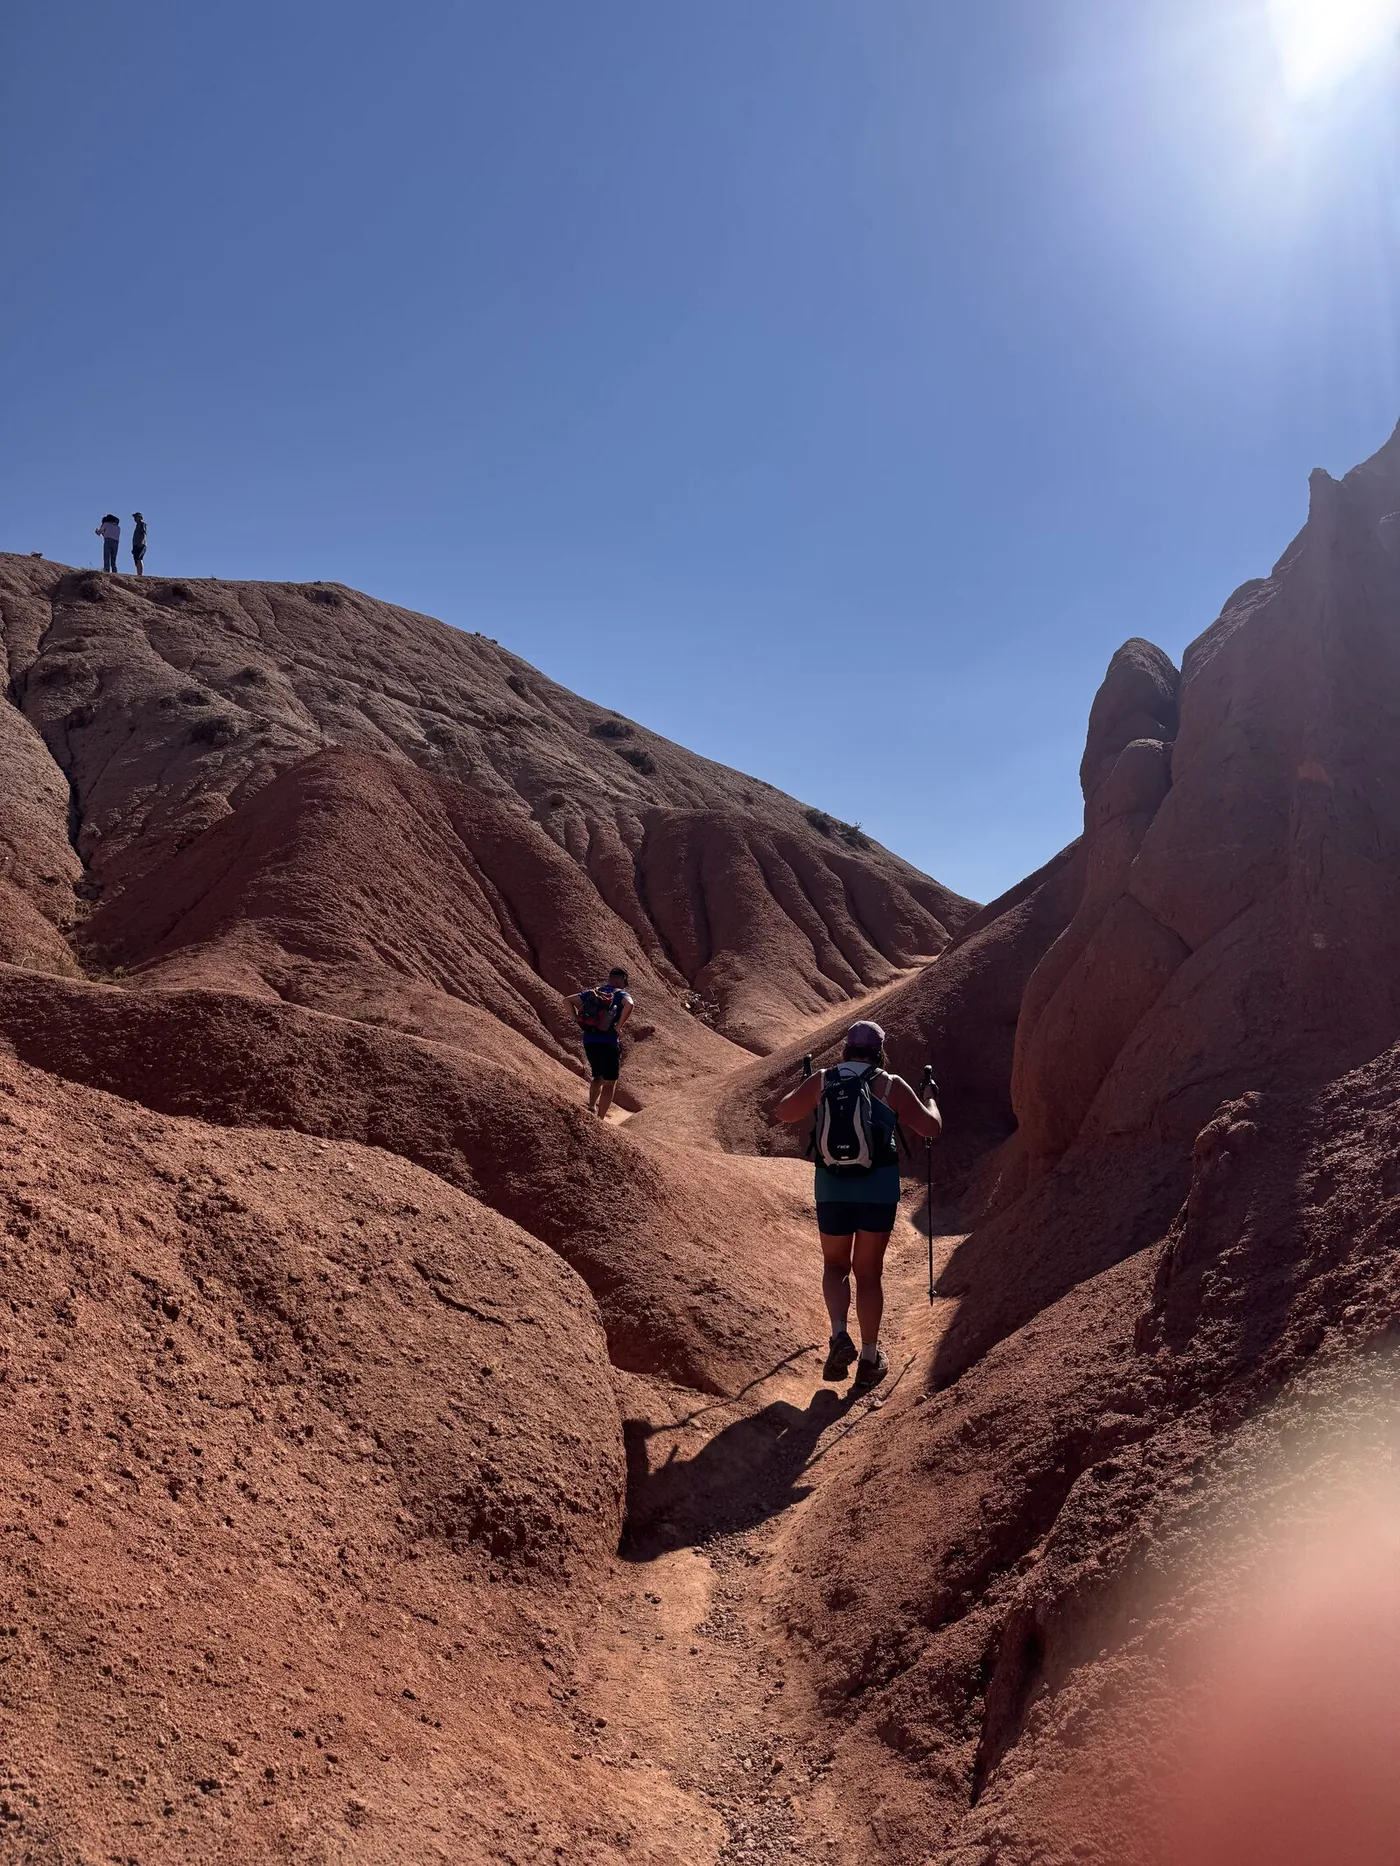
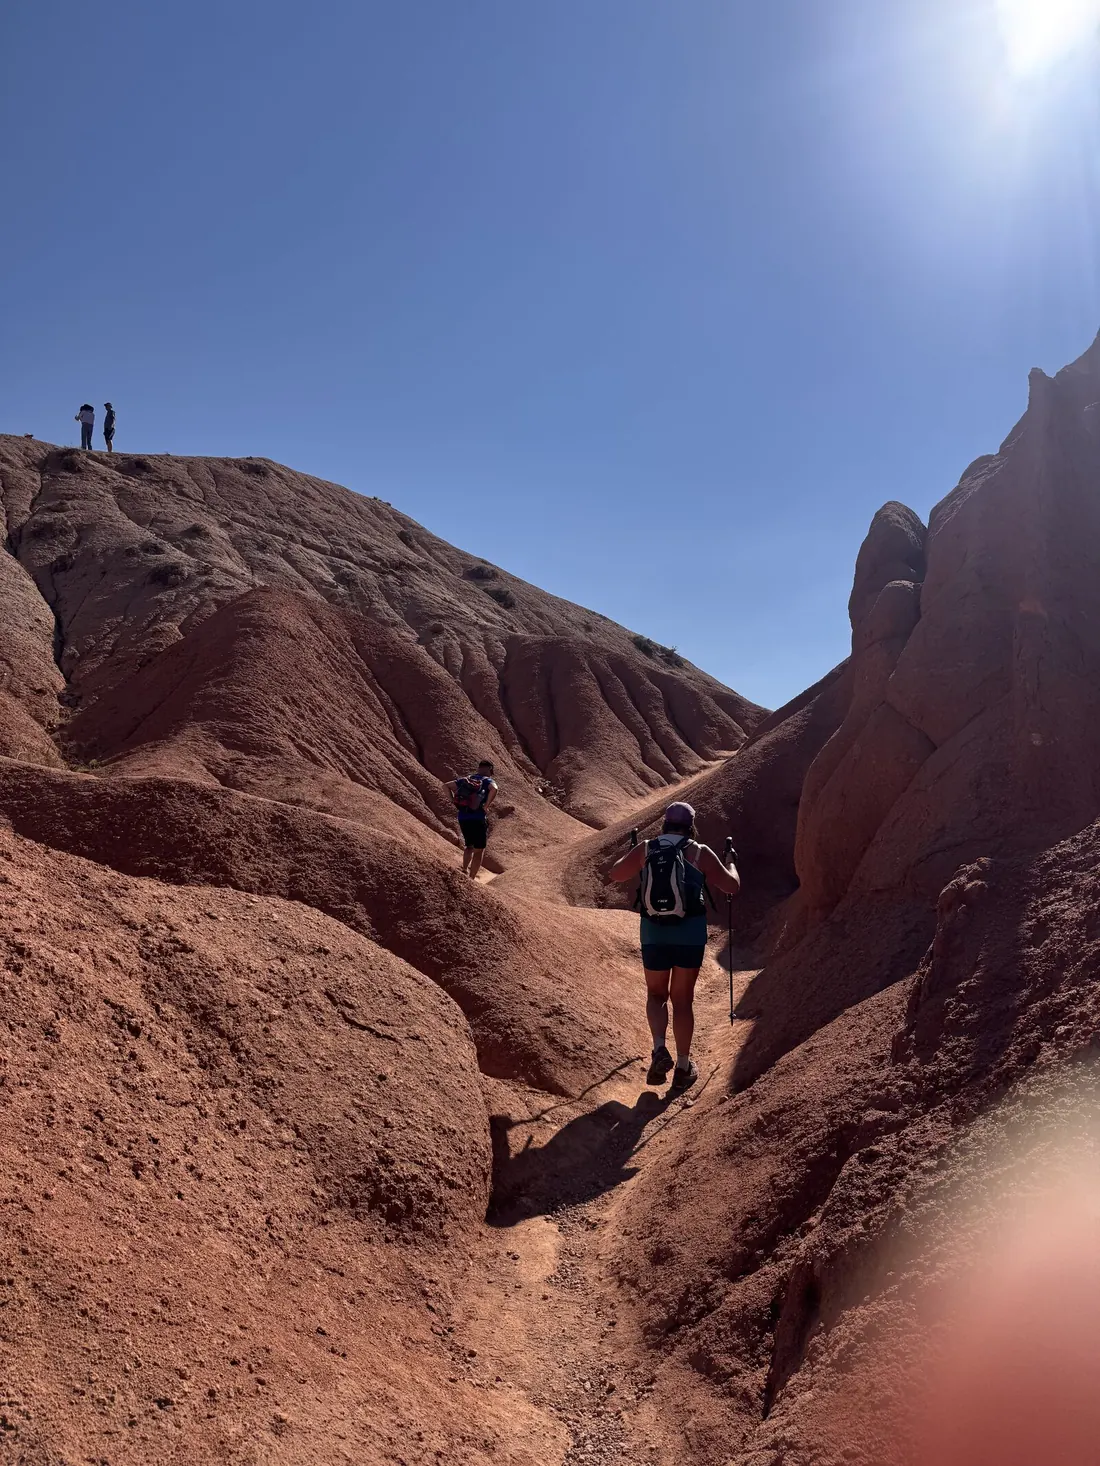
Changes

diff --git a/src/components/Testimonials.tsx b/src/components/Testimonials.tsx
@@ -1,8 +1,8 @@
 import { useScrollReveal } from "@/hooks/useScrollReveal";
 import { Star, Quote } from "lucide-react";
 
-import reviewHelmut from "@/assets/333.png";
-import reviewHubert from "@/assets/666.png";
+import reviewHelmut from "@/assets/333.webp";
+import reviewHubert from "@/assets/666.webp";
 import { useLanguage } from "@/i18n/LanguageContext";
 
 const reviews = [
@@ -68,6 +68,7 @@ const Testimonials = () => {
                   <img
                     src={r.screenshot}
                     alt="WhatsApp-Bewertung"
+                    decoding="async"
                     loading="lazy"
                   className="max-h-[320px] w-auto max-w-full rounded-sm object-contain shadow-soft sm:max-h-[380px]"
                   />

diff --git a/index.html b/index.html
@@ -9,7 +9,7 @@
     <link rel="icon" href="/favicon.png" type="image/png" />
     <link rel="icon" href="/favicon-192.png" type="image/png" sizes="192x192" />
     <link rel="apple-touch-icon" href="/favicon-192.png" />
-    <link rel="preload" as="image" href="/hero-wide.jpg?hero=20260928" fetchpriority="high" />
+    <link rel="preload" as="image" href="/hero-wide.webp" fetchpriority="high" />
     <title>Kereztour – Reisen nach Kirgisistan | Kyrgyzstan</title>
     <meta name="description" content="Kereztour organisiert persönliche Reisen nach Kirgisistan (Kyrgyzstan): Kultur Tour und Intensiv-Trekking in kleinen Gruppen mit lokalen Gastgebern." />
     <meta name="author" content="Kereztour" />

diff --git a/src/components/Tours.tsx b/src/components/Tours.tsx
@@ -24,7 +24,7 @@ const tours: Tour[] = [
     groupSize: "Kleine Gruppe, maximal 8 Personen",
     price: "1.690 €",
     to: "/reisen/kultur",
-    image: "/tour-kultur.jpg",
+    image: "/tour-kultur.webp",
     imagePosition: "center 65%",
   },
   {
@@ -36,7 +36,7 @@ const tours: Tour[] = [
     originalPrice: "1.750 €",
     saving: "Sie sparen 260 €",
     to: "/reisen/trekking",
-    image: "/tour-trekking.jpg",
+    image: "/tour-trekking.webp",
     imagePosition: "center 35%",
   },
 ];

diff --git a/src/components/About.tsx b/src/components/About.tsx
@@ -18,7 +18,7 @@ const About = () => {
           <div className="lg:col-span-6">
             <div className="relative aspect-[5/4] overflow-hidden shadow-lift">
               <img
-                src="/about.jpg"
+                src="/about.webp"
                 alt="Weite Landschaft Kirgisistans"
                 loading="lazy"
                 className="h-full w-full object-cover"

diff --git a/src/components/Hero.tsx b/src/components/Hero.tsx
@@ -6,11 +6,11 @@ import karakolMosque from "@/assets/gallery/IMG_3432.jpg";
 
 const heroImages = [
   {
-    src: "/hero-wide.jpg?hero=20260928",
+    src: "/hero-wide.webp",
     alt: "Berglandschaft im Tian Shan mit drei Jurten in Kirgisistan",
   },
   {
-    src: "/tour-kultur.jpg",
+    src: "/tour-kultur.webp",
     alt: "Kulturreise in Kirgisistan",
   },
   {
